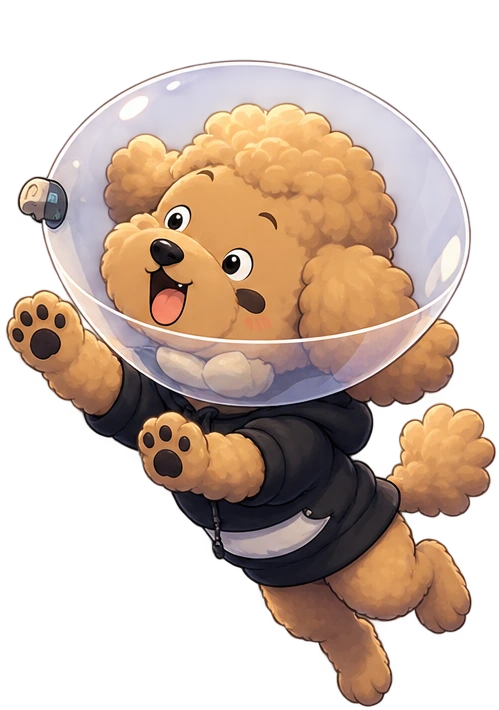
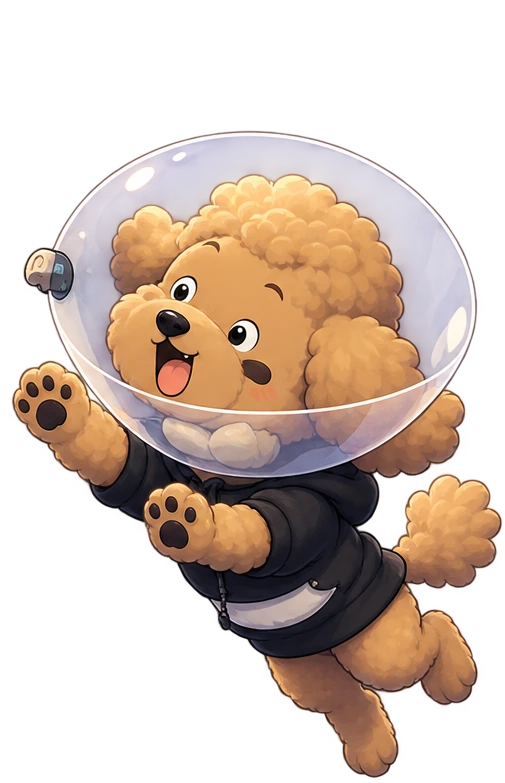
fix: resolve Hodu image rendering issue

diff --git a/src/components/BeanlogWorld.tsx b/src/components/BeanlogWorld.tsx
@@ -2171,11 +2171,12 @@ export default function BeanlogWorld() {
 
           <div className="resident-visual">
             <Image
-              src="/residents/hodu.webp"
+              src="/bitandink/residents/hodu.webp"
               alt="Hodu"
               width={600}
               height={600}
               priority
+              unoptimized
             />
           </div>
         </div>
